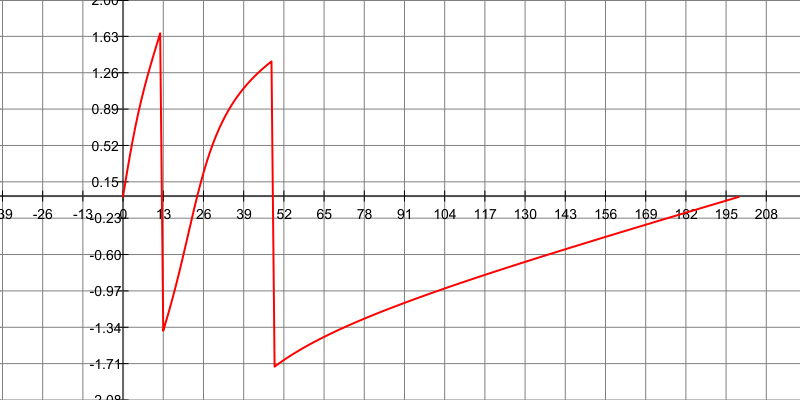
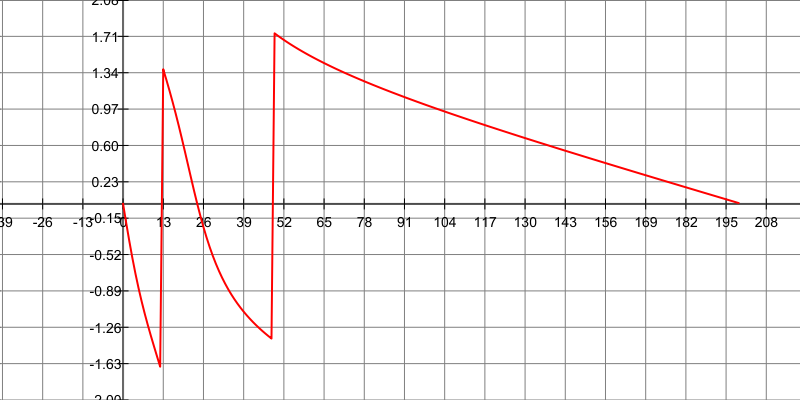
phase sign fix

diff --git a/main.go b/main.go
@@ -23,10 +23,9 @@ func dft(x []complex128, inv bool) []complex128 {
 		for n := 0; n < N; n++ {
 			omega := 2 * math.Pi * float64(k*n) / float64(N)
 			if inv {
-				sum += complex(math.Cos(omega), math.Sin(omega)) * x[n]
-			} else {
-				sum += complex(math.Cos(omega), -math.Sin(omega)) * x[n]
+				omega = -omega
 			}
+			sum += complex(math.Cos(omega), math.Sin(omega)) * x[n]
 		}
 		if inv {
 			sum /= complex(float64(N), 0)
